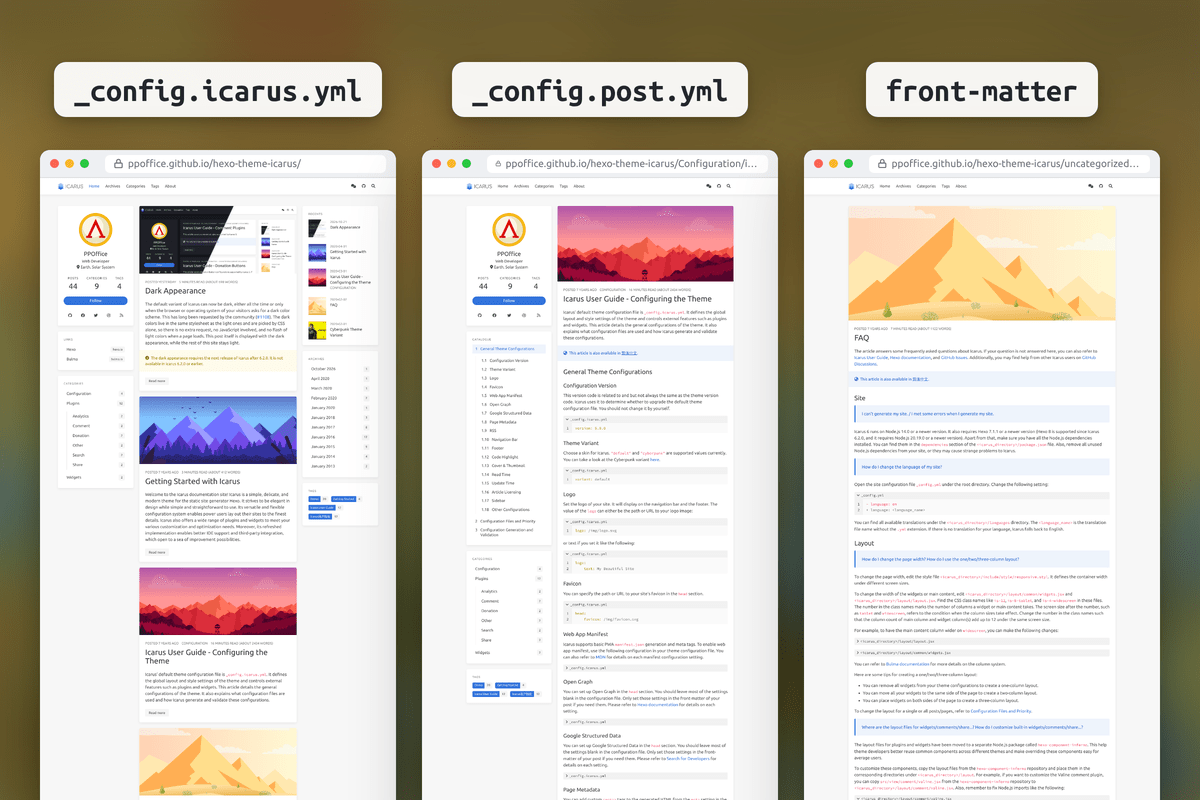
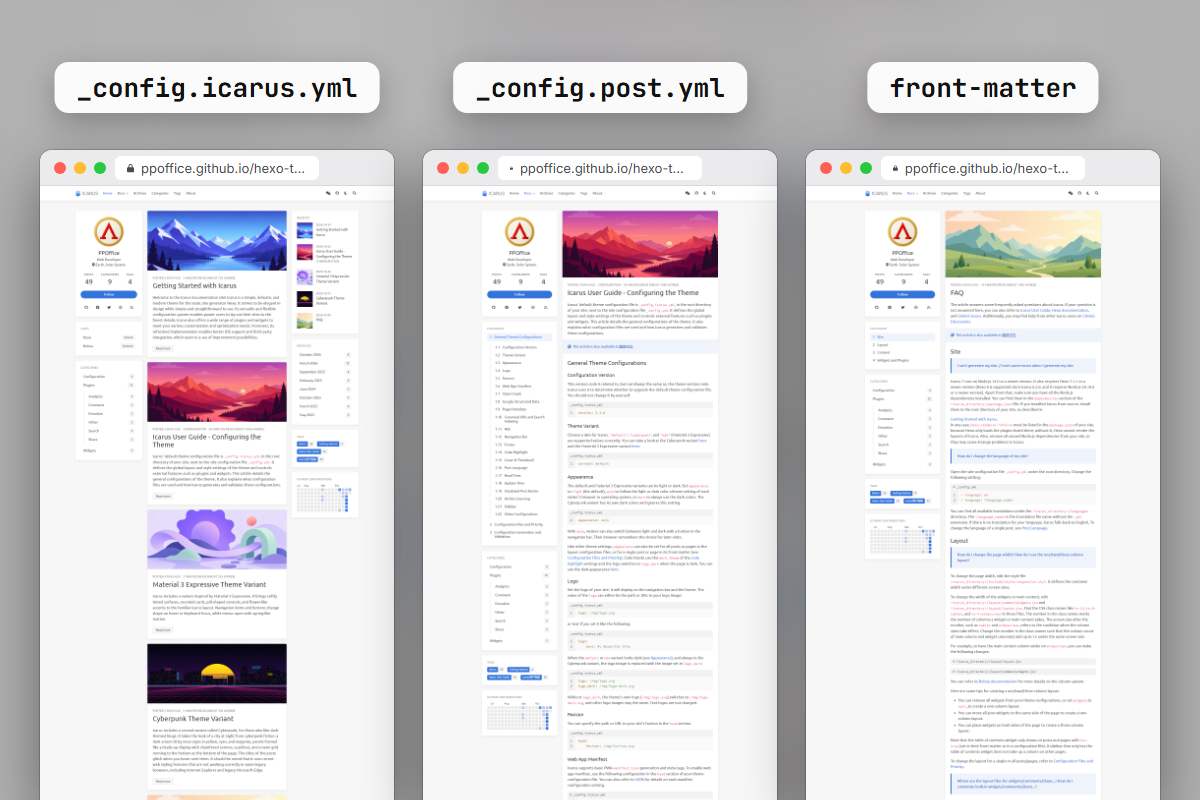
docs(site): refresh the about page, README screenshots and guide covers
Sync the about page with the README: the three variants, the highlights and the supported integrations. Retake the README screenshots from the current site, add one for the Material 3 Expressive variant and remove the unused keyboard screenshot. Use new covers for the getting started, configuration and FAQ guides, and drop the credits of the old ones.

diff --git a/source/about/index.md b/source/about/index.md
@@ -34,23 +34,38 @@ hexo server
 Icarus creates `_config.icarus.yml`, with every option described, on the first run.
 See {% post_link en/Getting-Started 'Getting Started' %} for other ways to install it.
 
+## Three Variants
+
+One line in `_config.icarus.yml`, or in the front-matter of a single post, switches the whole look.
+
+<div class="columns is-multiline">
+<div class="column is-half-tablet is-one-third-widescreen">
+<a class="gallery-item" href="/hexo-theme-icarus/gallery/readme/dark.png"><img src="/hexo-theme-icarus/gallery/readme/dark.png" alt="The default variant, half light and half dark"></a>
+<p><b>Default</b> · <code>variant: default</code><br>
+The classic Icarus look in light, dark, or <code>appearance: auto</code>, which follows each visitor's system and adds a light/dark switch to the navbar.
+{% post_link demo/Dark-Mode 'Demo' %}</p>
+</div>
+<div class="column is-half-tablet is-one-third-widescreen">
+<a class="gallery-item" href="/hexo-theme-icarus/gallery/readme/cyberpunk.png"><img src="/hexo-theme-icarus/gallery/readme/cyberpunk.png" alt="The Cyberpunk variant"></a>
+<p><b>Cyberpunk</b> · <code>variant: cyberpunk</code><br>
+Always dark: neon colors, HUD panels with chamfered corners, scanlines, and its own code palette.
+{% post_link demo/Cyberpunk 'Demo' %}</p>
+</div>
+<div class="column is-half-tablet is-one-third-widescreen">
+<a class="gallery-item" href="/hexo-theme-icarus/gallery/readme/m3e.png"><img src="/hexo-theme-icarus/gallery/readme/m3e.png" alt="The Material 3 Expressive variant, half light and half dark"></a>
+<p><b>Material 3 Expressive</b> · <code>variant: m3e</code><br>
+Tinted surfaces, rounded cards, and pill-shaped controls that change shape on hover and keyboard focus, with light and dark schemes.
+{% post_link demo/Material-3-Expressive 'Demo' %}</p>
+</div>
+</div>
+
 ## Highlights
 
 <div class="columns is-multiline">
 <div class="column is-half-tablet is-one-third-widescreen">
-<a class="gallery-item" href="/hexo-theme-icarus/gallery/readme/dark.png"><img src="/hexo-theme-icarus/gallery/readme/dark.png" alt="Dark appearance"></a>
-<p><b>Light, dark, or both</b><br>
-Follow each visitor's system setting with <code>appearance: auto</code>, or go dark everywhere.</p>
-</div>
-<div class="column is-half-tablet is-one-third-widescreen">
-<a class="gallery-item" href="/hexo-theme-icarus/gallery/readme/cyberpunk.png"><img src="/hexo-theme-icarus/gallery/readme/cyberpunk.png" alt="Cyberpunk variant"></a>
-<p><b>Cyberpunk variant</b><br>
-A second look of neon-lit nights, HUD frames and scanlines, one line away.</p>
-</div>
-<div class="column is-half-tablet is-one-third-widescreen">
-<a class="gallery-item" href="/hexo-theme-icarus/gallery/readme/responsive.png"><img src="/hexo-theme-icarus/gallery/readme/responsive.png" alt="Responsive layout"></a>
+<a class="gallery-item" href="/hexo-theme-icarus/gallery/readme/responsive.png"><img src="/hexo-theme-icarus/gallery/readme/responsive.png" alt="Responsive layout on a desktop and a phone"></a>
 <p><b>Responsive</b><br>
-One to three columns, navbar sub-menus that fold into a menu button, and a mobile table of contents.</p>
+One to three columns, navbar sub-menus that fold into a menu button, an optional sticky navbar, and a mobile table of contents.</p>
 </div>
 <div class="column is-half-tablet is-one-third-widescreen">
 <a class="gallery-item" href="/hexo-theme-icarus/gallery/readme/config.png"><img src="/hexo-theme-icarus/gallery/readme/config.png" alt="Per-page configuration"></a>
@@ -58,32 +73,36 @@ One to three columns, navbar sub-menus that fold into a menu button, and a mobil
 Set options site-wide, override them per layout in <code>_config.post.yml</code>, or per post in its front-matter.</p>
 </div>
 <div class="column is-half-tablet is-one-third-widescreen">
-<a class="gallery-item" href="/hexo-theme-icarus/gallery/readme/plugins.png"><img src="/hexo-theme-icarus/gallery/readme/plugins.png" alt="Waline comments in the dark appearance"></a>
-<p><b>40+ plugins built in</b><br>
+<a class="gallery-item" href="/hexo-theme-icarus/gallery/readme/plugins.png"><img src="/hexo-theme-icarus/gallery/readme/plugins.png" alt="Giscus comments, Insight search, gallery, sharing, donation buttons, MathJax and widgets"></a>
+<p><b>50+ plugins built in</b><br>
 Comments, search, sharing, donations, analytics and widgets, ready to switch on in the config.</p>
 </div>
-<div class="column is-half-tablet is-one-third-widescreen">
-<a class="gallery-item" href="/hexo-theme-icarus/gallery/readme/accessible.png"><img src="/hexo-theme-icarus/gallery/readme/accessible.png" alt="Navbar sub-menu opened with the keyboard"></a>
-<p><b>Fast and accessible</b><br>
-PJAX page loading, keyboard and screen reader support, and translations into 17 languages.</p>
 </div>
-</div>
+
+Also built in:
+
+- **Fast navigation**: PJAX page loading with scroll restoration on Back/Forward, and page prefetching on hover.
+- **Reading**: a reading progress bar, folded code blocks with a preview, and a notice on posts that have not been updated for a long time.
+- **Math and images**: KaTeX or MathJax 4, and lightGallery 3 with Justified Gallery.
+- **Privacy**: in `opt-in` mode, Cookie Consent loads the built-in analytics only after visitors allow them; Web Share shares without a third-party SDK.
+- **Accessible**: keyboard navigation, screen reader labels, `/` or Ctrl+K to search, and translations into 17 languages.
 
 <details>
-<summary><b>Supported plugins</b></summary>
+<summary><b>Supported integrations</b></summary>
 
-| Type | Plugins |
+| Type | Integrations |
 |---|---|
-| [Comment](/hexo-theme-icarus/categories/Plugins/Comment/) | Artalk, Beaudar, Changyan, Cusdis, Disqus, DisqusJS, Giscus, Gitalk, Isso, LiveRe, Twikoo, Utterances, Valine (deprecated), Waline |
+| [Comment](/hexo-theme-icarus/categories/Plugins/Comment/) | Artalk, Beaudar, Changyan, Disqus, DisqusJS, Giscus, Gitalk 2 (preview), Isso, LiveRe, Twikoo, Utterances, Waline |
 | [Search](/hexo-theme-icarus/categories/Plugins/Search/) | Algolia, Baidu, Google CSE, Insight (built-in) |
-| [Share](/hexo-theme-icarus/categories/Plugins/Share/) | AddToAny, ShareThis |
+| [Share](/hexo-theme-icarus/categories/Plugins/Share/) | AddToAny, ShareThis, Web Share |
 | [Donate](/hexo-theme-icarus/categories/Plugins/Donation/) | Afdian, Alipay, Buy Me a Coffee, Patreon, PayPal, WeChat Pay |
-| {% post_link en/Web-Analytics-Plugins 'Analytics' %} | Baidu Statistics, Bing Webmaster, BuSuanZi, CNZZ, Google Analytics, Hotjar, Matomo, StatCounter, Twitter Conversion Tracking, Umami, Waline page views |
-| [Widgets](/hexo-theme-icarus/categories/Widgets/) | Profile, Table of Contents, Recent Posts, Archives, Categories, Tags, Links, Google AdSense, follow.it |
-| [Others](/hexo-theme-icarus/categories/Plugins/) | Back to Top, Cookie Consent, Gallery (lightGallery + Justified Gallery), KaTeX, MathJax, Outdated Browser, Page Loading Animations, Progress Bar |
+| {% post_link en/Web-Analytics-Plugins 'Analytics' %} | Baidu Statistics, Bing Webmaster, BuSuanZi, CNZZ (Umeng+), Google Analytics, Hotjar, Matomo, StatCounter, X (Twitter) Conversion Tracking, Umami, Waline page views |
+| [Widgets](/hexo-theme-icarus/categories/Widgets/) | Profile, Table of Contents, Recent Posts, Archives, Categories, Tags, GitHub Contributions, Links, Google AdSense, follow.it |
+| [Others](/hexo-theme-icarus/categories/Plugins/) | Back to Top, Cookie Consent, Gallery (lightGallery + Justified Gallery), KaTeX, MathJax 4, Browser Capability Notice, Page Loading Animations, PJAX, Page Prefetching, Progress Bar |
 
-Most plugins are provided by [hexo-component-inferno](https://github.com/ppoffice/hexo-component-inferno).
-Deprecated plugins rely on services that have shut down or are about to, and Hexo prints a warning when one is enabled.
+Most integrations are provided by [hexo-component-inferno](https://github.com/ppoffice/hexo-component-inferno).
+The image viewer uses [lightGallery 3.0.0](https://github.com/sachinchoolur/lightGallery),
+under [GPLv3 or a commercial license](https://www.lightgalleryjs.com/docs/license/).
 Code blocks can use any [highlight.js](https://highlightjs.org/) theme, with a separate one for dark pages.
 
 </details>
@@ -94,6 +113,7 @@ Code blocks can use any [highlight.js](https://highlightjs.org/) theme, with a s
 {% post_link en/Configuring-Theme 'Configuring the Theme' %} ·
 {% post_link en/Upgrade-Guide 'Upgrade Guide' %} ·
 {% post_link en/FAQ 'FAQ' %} ·
+[Demos](/hexo-theme-icarus/tags/Demo/) ·
 [All Guides](/hexo-theme-icarus/tags/Icarus-User-Guide/)
 
 ## Contributing

diff --git a/source/_posts/en/Configuring-Theme.md b/source/_posts/en/Configuring-Theme.md
@@ -7,8 +7,8 @@ tags:
 - Icarus User Guide
 language: en
 toc: true
-cover: /gallery/covers/vector_landscape_2.svg
-thumbnail: /gallery/covers/vector_landscape_2.svg
+cover: /gallery/covers/configuring-theme.webp
+thumbnail: /gallery/covers/configuring-theme.webp
 ---
 
 Icarus' default theme configuration file is `_config.icarus.yml`, in the root directory of your site, next to
@@ -718,6 +718,3 @@ Click <a href="https://github.com/ppoffice/hexo-theme-icarus/edit/site/source/_p
 to submit your revision.
 </div>
 </article>
-
-
-<a style="background-color:black;color:white;text-decoration:none;padding:4px 6px;font-size:12px;line-height:1.2;display:inline-block;border-radius:3px" href="https://www.vecteezy.com/free-vector/vector-landscape" target="_blank" rel="noopener noreferrer" title="Vector Landscape Vectors by Vecteezy"><span style="display:inline-block;padding:2px 3px"><svg xmlns="http://www.w3.org/2000/svg" style="height:12px;width:auto;position:relative;vertical-align:middle;top:-1px;fill:white" viewBox="0 0 32 32"><path d="M20.8 18.1c0 2.7-2.2 4.8-4.8 4.8s-4.8-2.1-4.8-4.8c0-2.7 2.2-4.8 4.8-4.8 2.7.1 4.8 2.2 4.8 4.8zm11.2-7.4v14.9c0 2.3-1.9 4.3-4.3 4.3h-23.4c-2.4 0-4.3-1.9-4.3-4.3v-15c0-2.3 1.9-4.3 4.3-4.3h3.7l.8-2.3c.4-1.1 1.7-2 2.9-2h8.6c1.2 0 2.5.9 2.9 2l.8 2.4h3.7c2.4 0 4.3 1.9 4.3 4.3zm-8.6 7.5c0-4.1-3.3-7.5-7.5-7.5-4.1 0-7.5 3.4-7.5 7.5s3.3 7.5 7.5 7.5c4.2-.1 7.5-3.4 7.5-7.5z"></path></svg></span><span style="display:inline-block;padding:2px 3px">Vector Landscape Vectors by Vecteezy</span></a>

diff --git a/source/_posts/zh-CN/Getting-Started.md b/source/_posts/zh-CN/Getting-Started.md
@@ -8,8 +8,8 @@ providers:
     cdn: loli
     fontcdn: loli
     iconcdn: loli
-cover: /gallery/covers/chinese-painting.jpg
-thumbnail: /gallery/covers/chinese-painting.jpg
+cover: /gallery/covers/getting-started-zh.webp
+thumbnail: /gallery/covers/getting-started-zh.webp
 ---
 
 欢迎使用Icarus！
@@ -139,5 +139,3 @@ hexo server
 <i class="fas fa-question-circle mr-2"></i>文章内容有误？点击<a href="https://github.com/ppoffice/hexo-theme-icarus/edit/site/source/_posts/zh-CN/Getting-Started.md">此处</a>提交修改。
 </div>
 </article>
-
-<a style="background-color:black;color:white;text-decoration:none;padding:4px 6px;font-size:12px;line-height:1.2;display:inline-block;border-radius:3px" href="https://www.dpm.org.cn/collection/paint/228354.html" target="_blank" rel="noopener noreferrer"><span style="display:inline-block;padding:2px 3px"><svg xmlns="http://www.w3.org/2000/svg" style="height:12px;width:auto;position:relative;vertical-align:middle;top:-1px;fill:white" viewBox="0 0 32 32"><title>unsplash-logo</title><path d="M20.8 18.1c0 2.7-2.2 4.8-4.8 4.8s-4.8-2.1-4.8-4.8c0-2.7 2.2-4.8 4.8-4.8 2.7.1 4.8 2.2 4.8 4.8zm11.2-7.4v14.9c0 2.3-1.9 4.3-4.3 4.3h-23.4c-2.4 0-4.3-1.9-4.3-4.3v-15c0-2.3 1.9-4.3 4.3-4.3h3.7l.8-2.3c.4-1.1 1.7-2 2.9-2h8.6c1.2 0 2.5.9 2.9 2l.8 2.4h3.7c2.4 0 4.3 1.9 4.3 4.3zm-8.6 7.5c0-4.1-3.3-7.5-7.5-7.5-4.1 0-7.5 3.4-7.5 7.5s3.3 7.5 7.5 7.5c4.2-.1 7.5-3.4 7.5-7.5z"></path></svg></span><span style="display:inline-block;padding:2px 3px">王希孟 千里江山图卷</span></a>

diff --git a/source/_posts/en/Getting-Started.md b/source/_posts/en/Getting-Started.md
@@ -4,8 +4,8 @@ tags:
 - Getting Started
 - Icarus User Guide
 language: en
-cover: /gallery/covers/vector_landscape_1.svg
-thumbnail: /gallery/covers/vector_landscape_1.svg
+cover: /gallery/covers/getting-started-en.webp
+thumbnail: /gallery/covers/getting-started-en.webp
 ---
 
 Welcome to the Icarus documentation site!
@@ -140,5 +140,3 @@ Click <a href="https://github.com/ppoffice/hexo-theme-icarus/edit/site/source/_p
 to submit your revision.
 </div>
 </article>
-
-<a style="background-color:black;color:white;text-decoration:none;padding:4px 6px;font-size:12px;line-height:1.2;display:inline-block;border-radius:3px" href="https://www.vecteezy.com/free-vector/vector-landscape" target="_blank" rel="noopener noreferrer" title="Vector Landscape Vectors by Vecteezy"><span style="display:inline-block;padding:2px 3px"><svg xmlns="http://www.w3.org/2000/svg" style="height:12px;width:auto;position:relative;vertical-align:middle;top:-1px;fill:white" viewBox="0 0 32 32"><path d="M20.8 18.1c0 2.7-2.2 4.8-4.8 4.8s-4.8-2.1-4.8-4.8c0-2.7 2.2-4.8 4.8-4.8 2.7.1 4.8 2.2 4.8 4.8zm11.2-7.4v14.9c0 2.3-1.9 4.3-4.3 4.3h-23.4c-2.4 0-4.3-1.9-4.3-4.3v-15c0-2.3 1.9-4.3 4.3-4.3h3.7l.8-2.3c.4-1.1 1.7-2 2.9-2h8.6c1.2 0 2.5.9 2.9 2l.8 2.4h3.7c2.4 0 4.3 1.9 4.3 4.3zm-8.6 7.5c0-4.1-3.3-7.5-7.5-7.5-4.1 0-7.5 3.4-7.5 7.5s3.3 7.5 7.5 7.5c4.2-.1 7.5-3.4 7.5-7.5z"></path></svg></span><span style="display:inline-block;padding:2px 3px">Vector Landscape Vectors by Vecteezy</span></a>

diff --git a/source/_posts/en/FAQ.md b/source/_posts/en/FAQ.md
@@ -3,8 +3,8 @@ date: 2026-10-20
 tags:
 - Icarus User Guide
 toc: true
-cover: /gallery/covers/vector_landscape_3.svg
-thumbnail: /gallery/covers/vector_landscape_3.svg
+cover: /gallery/covers/faq.webp
+thumbnail: /gallery/covers/faq.webp
 ---
 
 The article answers some frequently asked questions about Icarus.
@@ -281,6 +281,3 @@ Click <a href="https://github.com/ppoffice/hexo-theme-icarus/edit/site/source/_p
 to submit your revision.
 </div>
 </article>
-
-
-<a style="background-color:black;color:white;text-decoration:none;padding:4px 6px;font-size:12px;line-height:1.2;display:inline-block;border-radius:3px" href="https://www.vecteezy.com/free-vector/vector-landscape" target="_blank" rel="noopener noreferrer" title="Vector Landscape Vectors by Vecteezy"><span style="display:inline-block;padding:2px 3px"><svg xmlns="http://www.w3.org/2000/svg" style="height:12px;width:auto;position:relative;vertical-align:middle;top:-1px;fill:white" viewBox="0 0 32 32"><path d="M20.8 18.1c0 2.7-2.2 4.8-4.8 4.8s-4.8-2.1-4.8-4.8c0-2.7 2.2-4.8 4.8-4.8 2.7.1 4.8 2.2 4.8 4.8zm11.2-7.4v14.9c0 2.3-1.9 4.3-4.3 4.3h-23.4c-2.4 0-4.3-1.9-4.3-4.3v-15c0-2.3 1.9-4.3 4.3-4.3h3.7l.8-2.3c.4-1.1 1.7-2 2.9-2h8.6c1.2 0 2.5.9 2.9 2l.8 2.4h3.7c2.4 0 4.3 1.9 4.3 4.3zm-8.6 7.5c0-4.1-3.3-7.5-7.5-7.5-4.1 0-7.5 3.4-7.5 7.5s3.3 7.5 7.5 7.5c4.2-.1 7.5-3.4 7.5-7.5z"></path></svg></span><span style="display:inline-block;padding:2px 3px">Vector Landscape Vectors by Vecteezy</span></a>
